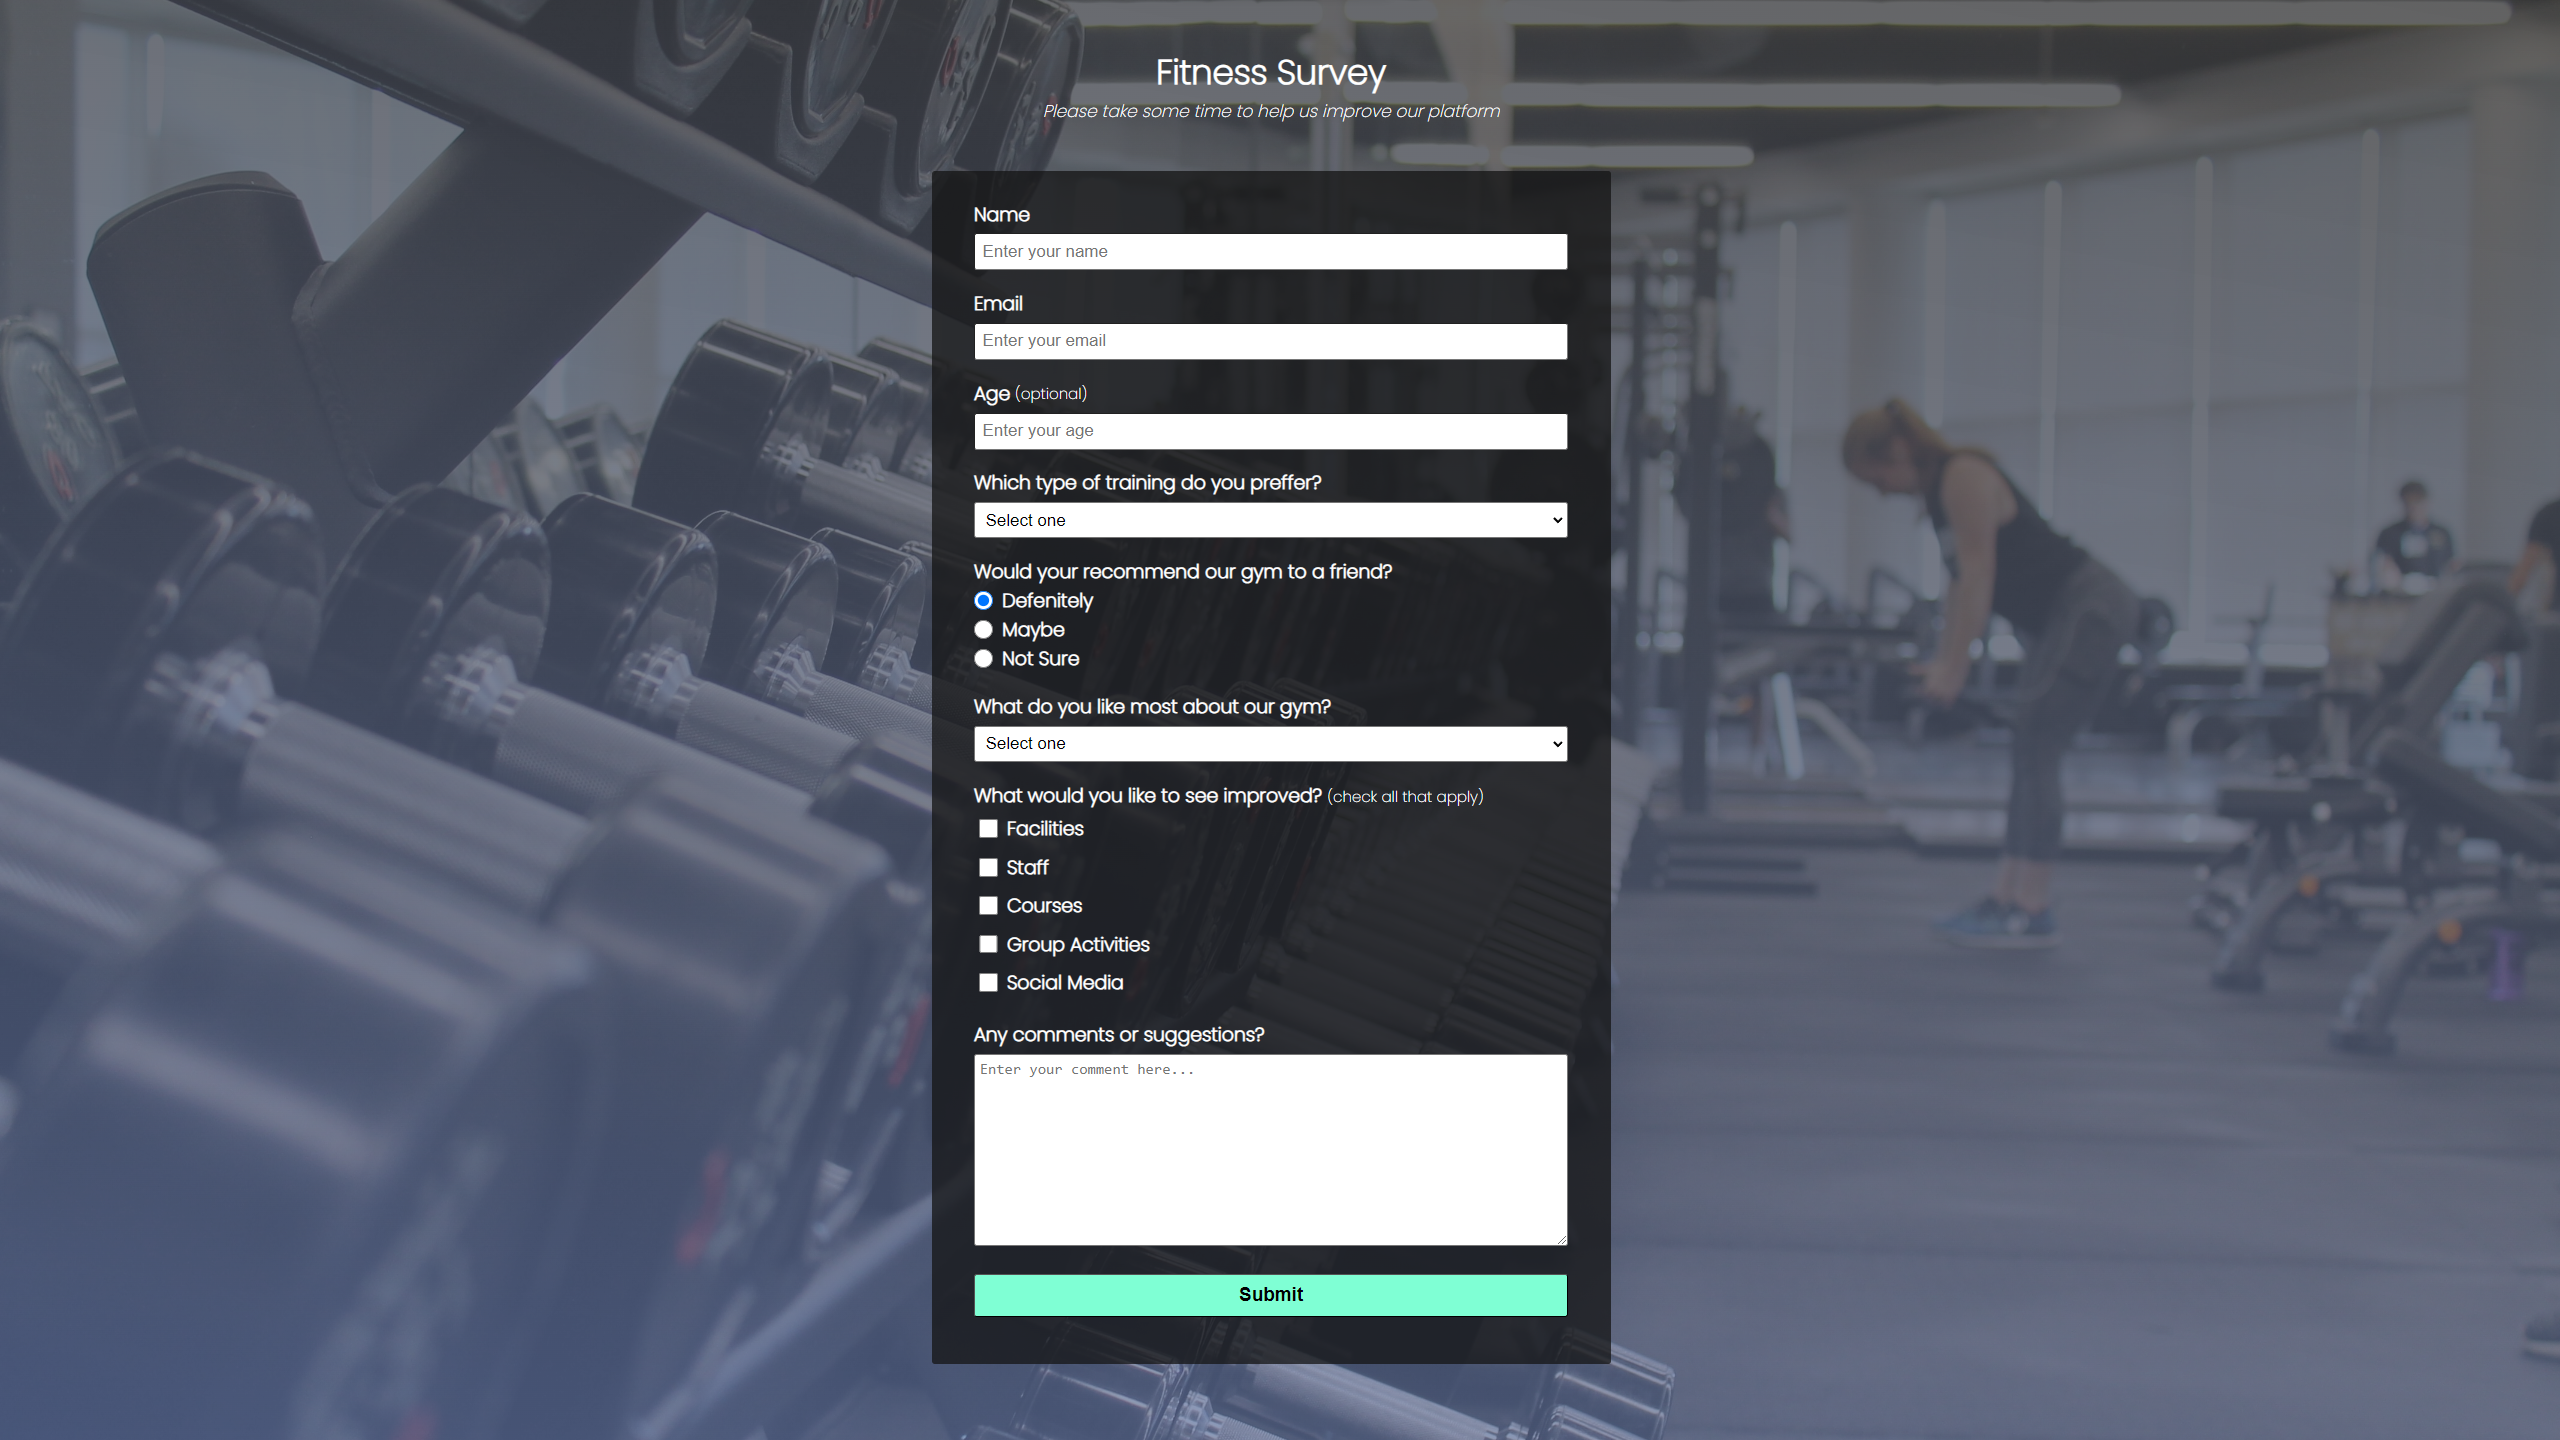
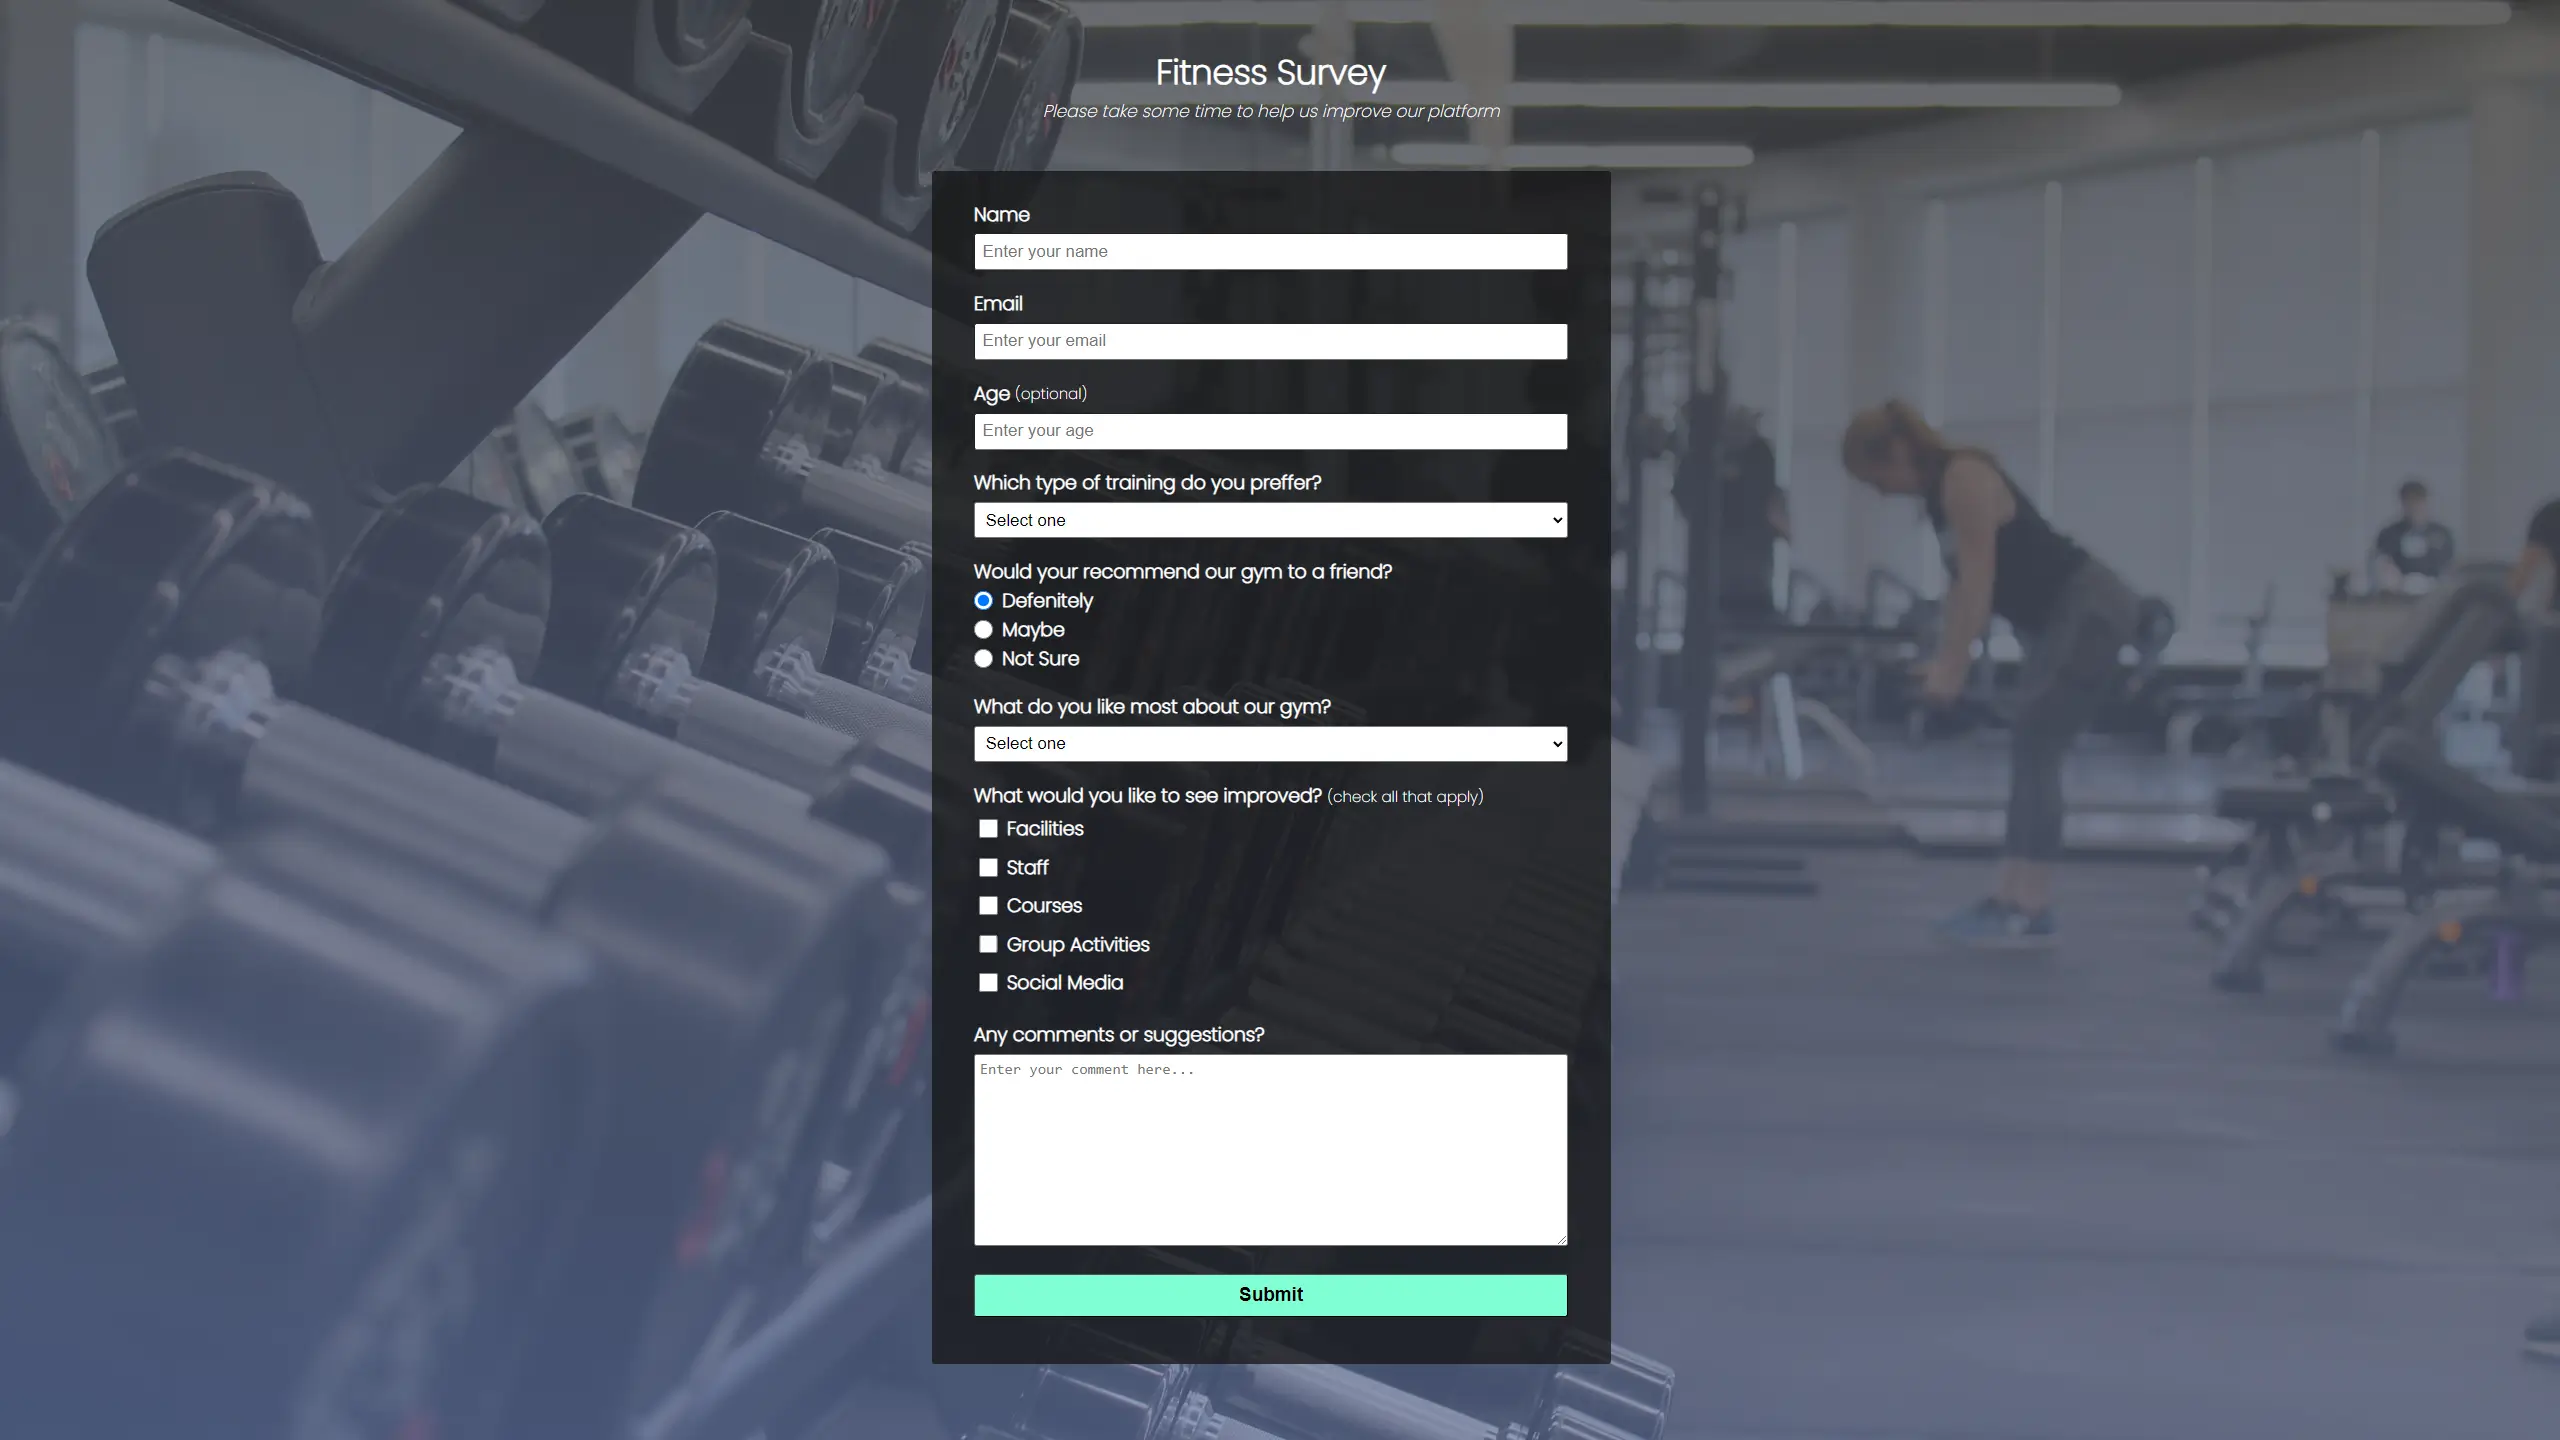
Alter image sizes for better perfmance and add defer on the JS script

diff --git a/index.html b/index.html
@@ -104,7 +104,7 @@
         </section>
 
     </div>
-    <script src="app.js"></script>
+    <script src="app.js" defer></script>
     <script src="https://kit.fontawesome.com/b4f03823c8.js" crossorigin="anonymous" defer></script>
 </body>
 
